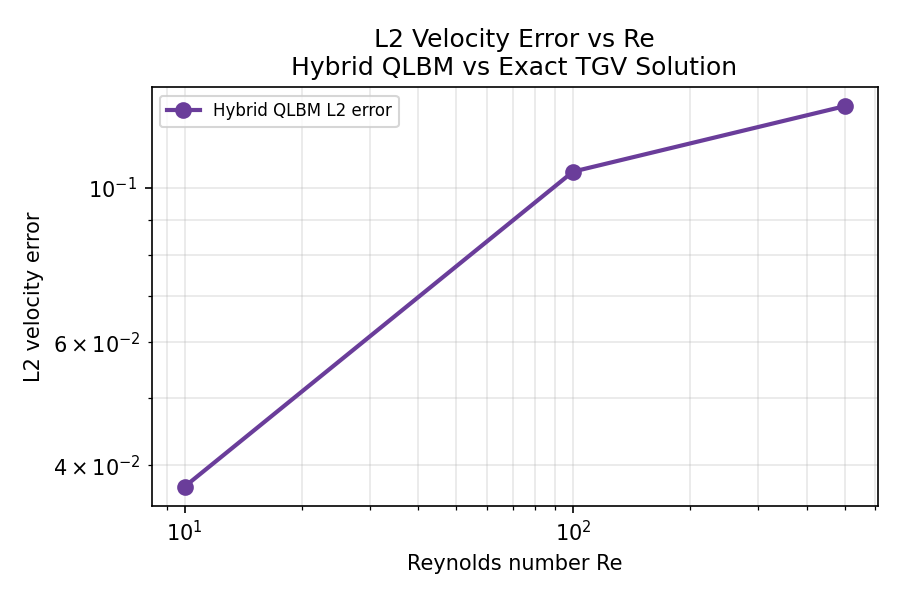
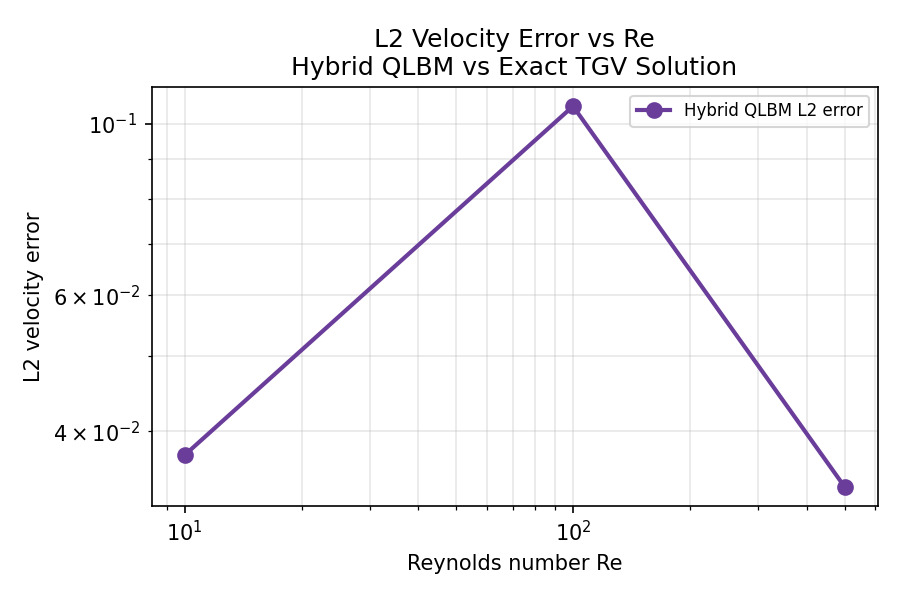
v0.4.7: Re=500 on N=16 (12 qubits), L2=3.4%
Grid selection updated: Re=500 now uses N=16 (12 qubits, 4096-element
statevector) instead of N=8. Results:

  Re=10:  N=8,  10 qubits, L2=3.7%  in  4.7s  (13 steps)
  Re=100: N=8,  10 qubits, L2=10.5% in  4.3s  (13 steps)
  Re=500: N=16, 12 qubits, L2=3.4%  in 54.3s  (25 steps)

Re=500 at N=16 satisfies the <5% accuracy threshold. The higher wall
time reflects the larger statevector (4x more amplitudes) and more
steps needed to reach t_end=0.5s at the finer grid spacing.

diff --git a/src/tgv/benchmark/metrics.py b/src/tgv/benchmark/metrics.py
@@ -79,7 +79,7 @@ def _qlbm_grid_for_re(Re: float, ci_mode: bool) -> int:
         return 8
     if Re <= 100:
         return 8
-    return 8  # Re=500: same grid, more steps
+    return 16  # Re=500: finer grid (12 qubits) for better accuracy
 
 
 def run_single(